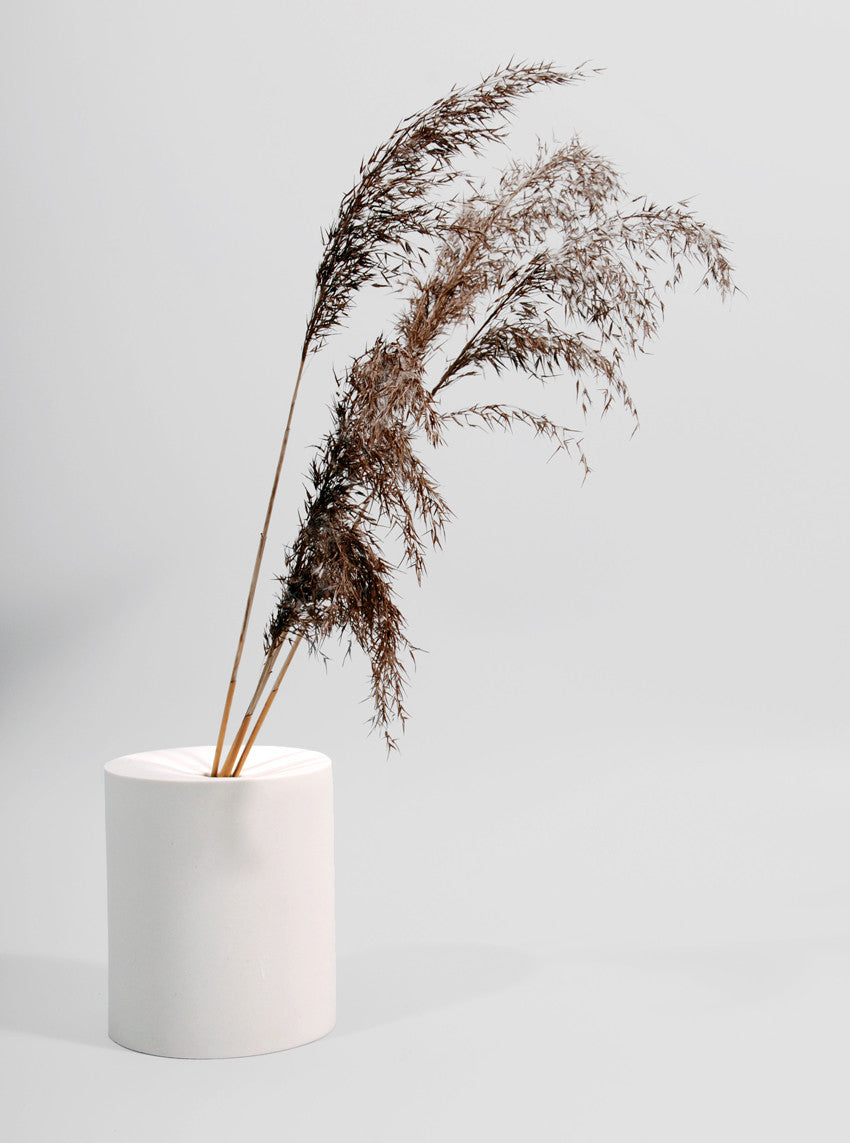
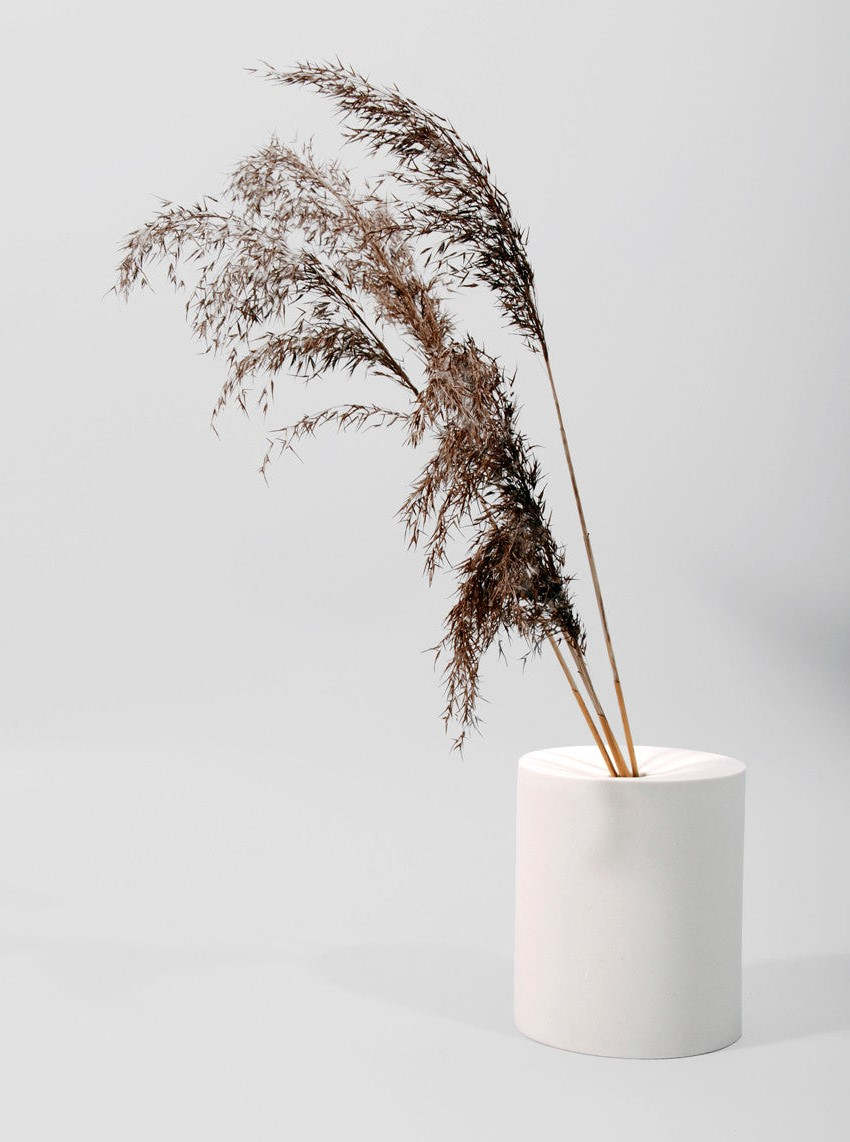
Changed orientation of one picture + final verison of webpage

diff --git a/index.html b/index.html
@@ -52,7 +52,7 @@
         <div class="about_us_card">
             <div class="about_us_paragraph">
 
-                <div>
+                <div><p>
                 
                 Lorem ipsum dolor sit amet, consectetur adipiscing elit, sed do eiusmod
                 tempor incididunt ut labore et dolore magna aliqua. Neque laoreet suspendisse
@@ -60,23 +60,23 @@
                 amet massa. Senectus et netus et malesuada fames ac turpis egestas maecenas. 
                 Odio aenean sed adipiscing diam donec adipiscing tristique risus nec. 
                 Sagittis id consectetur purus ut faucibus. Elit duis tristique sollicitudin
-                nibh sit amet commodo.
+                nibh sit amet commodo.</p>
 
-                <img src="./assets/Vase_Dame_2048x2048.jpg" alt="flowers in a white vase" style="width: 397px; height: 534px"></div>
+                <img src="./assets/Vase_Dame_2048x2048.jpg" alt="flowers in a white vase" style="width: 300px; height: 400px"></div>
                 
-                <div>Nulla porttitor massa id neque aliquam vestibulum morbi. Facilisi nullam
+                <div><p>Nulla porttitor massa id neque aliquam vestibulum morbi. Facilisi nullam
                 vehicula ipsum a arcu cursus vitae congue. Nam libero justo laoreet sit
                 amet cursus sit amet dictum. Tristique magna sit amet purus gravida quis.
                 Velit euismod in pellentesque massa placerat. In ante metus dictum at tempor
                 commodo. Libero nunc consequat interdum varius sit amet mattis. Egestas
                 sed sed risus pretium quam vulputate dignissim. Diam phasellus vestibulum
-                lorem sed risus. Cursus sit amet dictum sit amet justo donec enim.
+                lorem sed risus. Cursus sit amet dictum sit amet justo donec enim.</p>
 
-                Tincidunt praesent semper feugiat nibh sed. Vulputate mi sit amet mauris
+                <p>Tincidunt praesent semper feugiat nibh sed. Vulputate mi sit amet mauris
                 commodo quis imperdiet massa. Amet tellus cras adipiscing enim eu turpis
-                egestas pretium aenean. Nullam ac tortor vitae purus</div>
+                egestas pretium aenean. Nullam ac tortor vitae purus</p></div>
 
-                <img src="./assets/Cylinder_unglazed3_2048x2048.jpg" alt="ferns in a white vase" style="width: 600.87px; height: 808px;">
+                <img src="./assets/Cylinder_unglazed3_2048x2048.jpg" alt="ferns in a white vase" style="width: 600.87px; height: 808px;" >
         
             </div>
         </div>
@@ -204,7 +204,9 @@
         </div>
         
     <section class="contact us">
-        <h4>CONTACT US</h4>
+        <h3>CONTACT US</h3>
+        <hr size="10" color="black">
+        
             
         <label for="email">EMAIL</label>
         <input name="email"
@@ -216,16 +218,17 @@
                type="text"
                size="100">
 
-        <P>SEND</P>
+        <a href="send">SEND</a>
     </section>
 
     <footer>
-        <img src="./assets/icons8-youtube-96.png" alt="youtube logo">
+        <div>
+        <img src="./assets/icons8-youtube-96.png" alt="youtube logo">;
         <img src="./assets/icons8-facebook-96 (1).png" alt="facebook logo">
         
         <h5 class="first_footer">CARA</h5> 
         
-            <img src="./assets/icons8-pottery-96.png" alt="small pottery vase">
+        <img src="./assets/icons8-pottery-96.png" alt="small pottery vase">
             
         <h5 class="second_footer">CARA</h5>
         <img src="./assets/icons8-twitter-96.png" alt="twitter logo">
@@ -236,6 +239,7 @@
         <p>Amet tellus cras adipiscing enim eu turpis.</p>
 
         <p> ©Copyright 2015 - 2020</p>
+        </div>
     </footer>
 </body>
 </html>

diff --git a/styles.css b/styles.css
@@ -13,6 +13,10 @@ header{
     padding: 1rem;
 }
 
+.nav_buttons a{
+    display: black;
+    list-style-type: none;
+}
 .nav_list{
     display: grid;
     flex-direction: row;
@@ -27,12 +31,6 @@ header{
     color: black;
     justify-content: space-evenly
 }
-
-.nav_buttons a{
-    display: black;
-    list-style-type: none;
-}
-
 
 
 .first_title {
@@ -72,7 +70,7 @@ main image{
 
 .about_us_card{
     display: grid;
-    grid-template-columns: 1fr 1fr 1fr;
+    grid-template-columns: 3fr;
 }
 
 .about_us_paragraph img{
